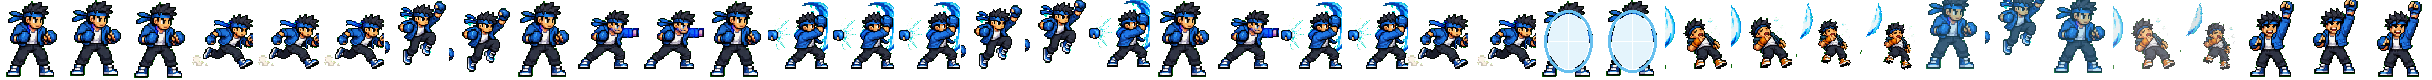
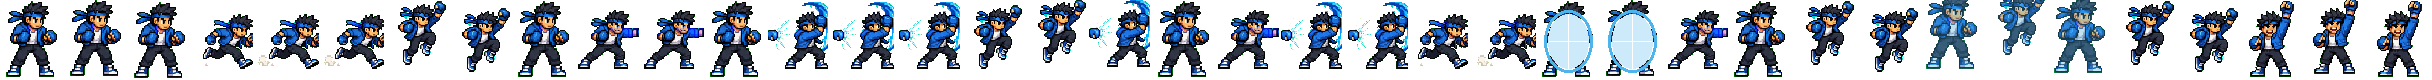
fix: shrink fighters and clean sprite frames

diff --git a/src/game/scenes/MatchScene.js b/src/game/scenes/MatchScene.js
@@ -5,6 +5,7 @@ import { createKeyboardInput } from "../input/inputMapper.js";
 import { createOnlineInputLatch } from "@game/net/onlineInputLatch.js";
 import { createSocketClient } from "@game/net/socketClient.js";
 import { animationKey } from "../render/animationMap.js";
+import { EFFECT_RENDER_SCALE, FIGHTER_RENDER_SCALE } from "../render/renderScale.js";
 
 const WIDTH = 1280;
 const HEIGHT = 720;
@@ -121,7 +122,7 @@ export class MatchScene extends Phaser.Scene {
   createFighterSprite(fighter) {
     const sprite = this.add.sprite(fighter.x, fighter.y, `fighter:${fighter.palette}`, 0);
     sprite.setOrigin(0.5, 1);
-    sprite.setScale(2);
+    sprite.setScale(FIGHTER_RENDER_SCALE);
     sprite.play(animationKey(fighter));
     return sprite;
   }
@@ -144,7 +145,7 @@ export class MatchScene extends Phaser.Scene {
   renderEffects() {
     for (const effect of this.match.effects) {
       const sprite = this.add.sprite(effect.x, effect.y, "effects", 0);
-      sprite.setScale(2);
+      sprite.setScale(EFFECT_RENDER_SCALE);
       sprite.play(`effect:${effect.type}`);
       sprite.once(Phaser.Animations.Events.ANIMATION_COMPLETE, () => sprite.destroy());
       this.effectSprites.push(sprite);

diff --git a/src/game/render/renderScale.test.js b/src/game/render/renderScale.test.js
@@ -1,0 +1,8 @@
+import { describe, expect, it } from "vitest";
+import { FIGHTER_RENDER_SCALE } from "./renderScale.js";
+
+describe("render scale", () => {
+  it("keeps fighters compact enough for the floating arena", () => {
+    expect(FIGHTER_RENDER_SCALE).toBe(1.5);
+  });
+});

diff --git a/src/game/render/renderScale.js b/src/game/render/renderScale.js
@@ -1,0 +1,2 @@
+export const FIGHTER_RENDER_SCALE = 1.5;
+export const EFFECT_RENDER_SCALE = 2;
